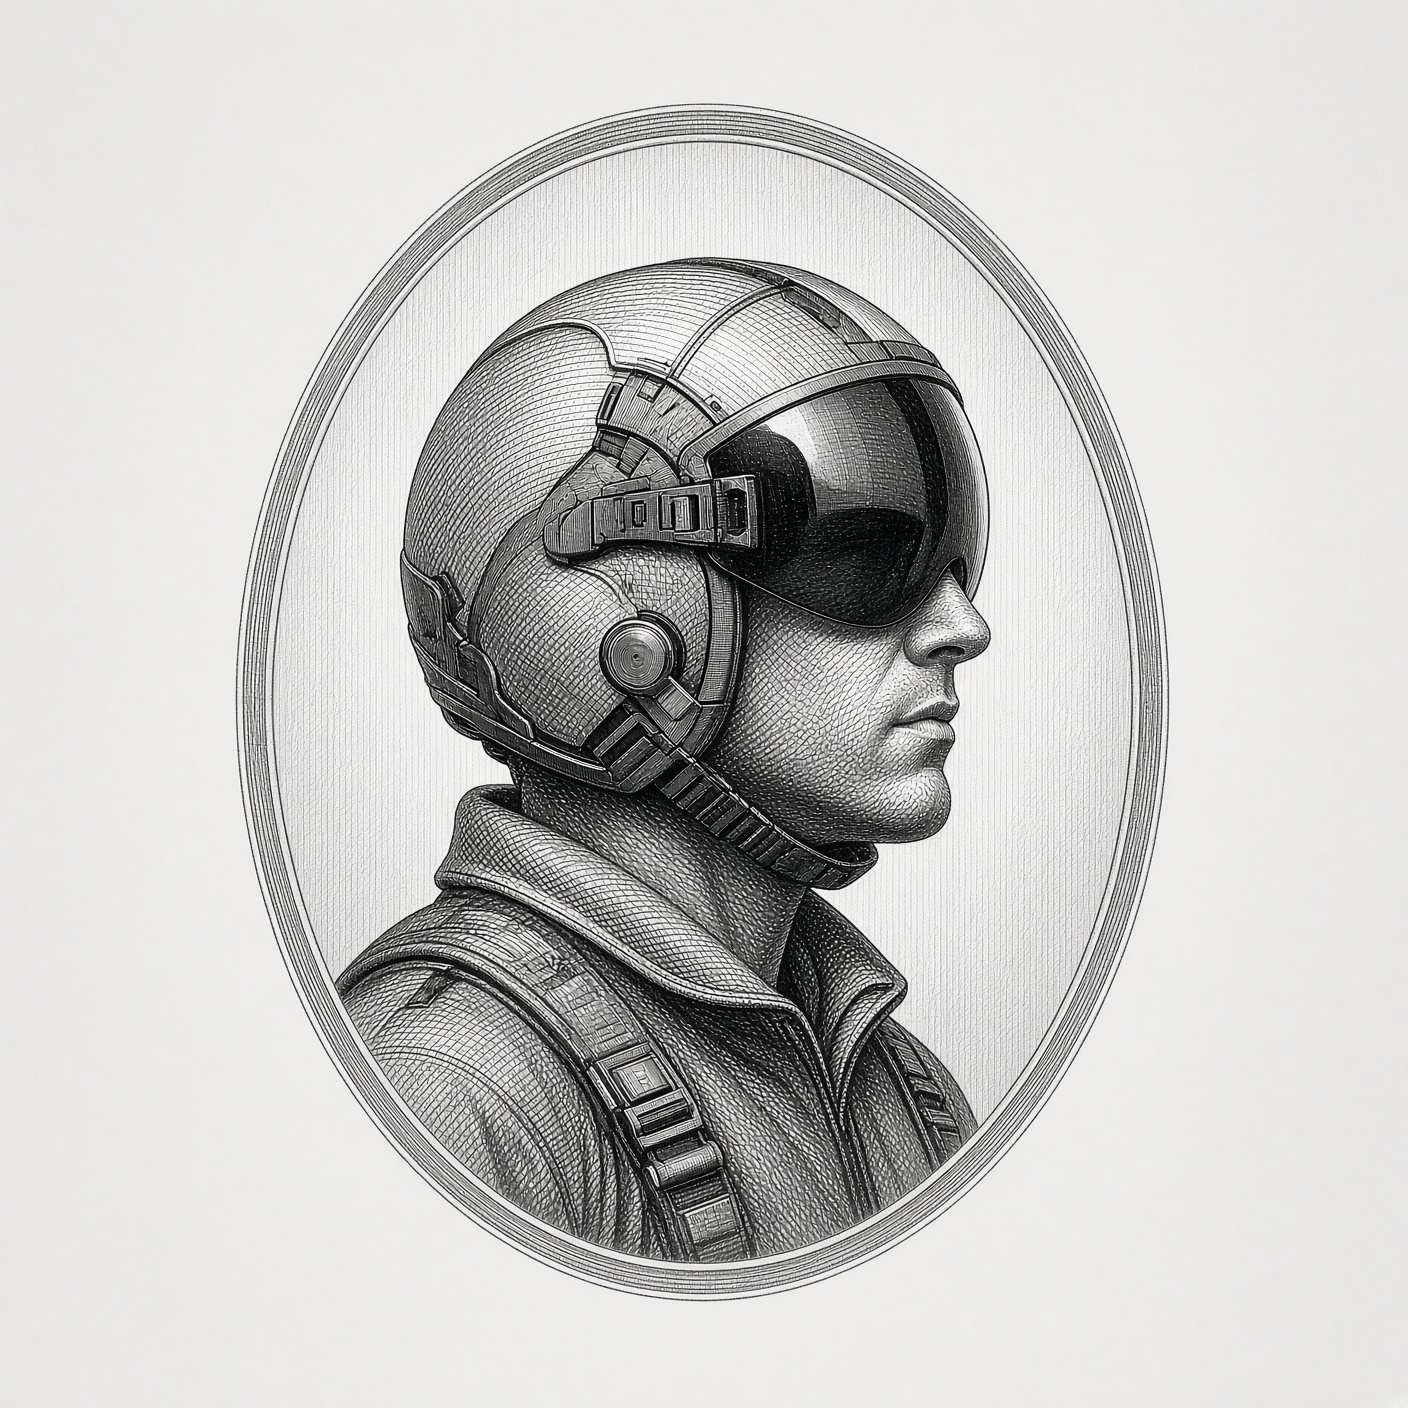
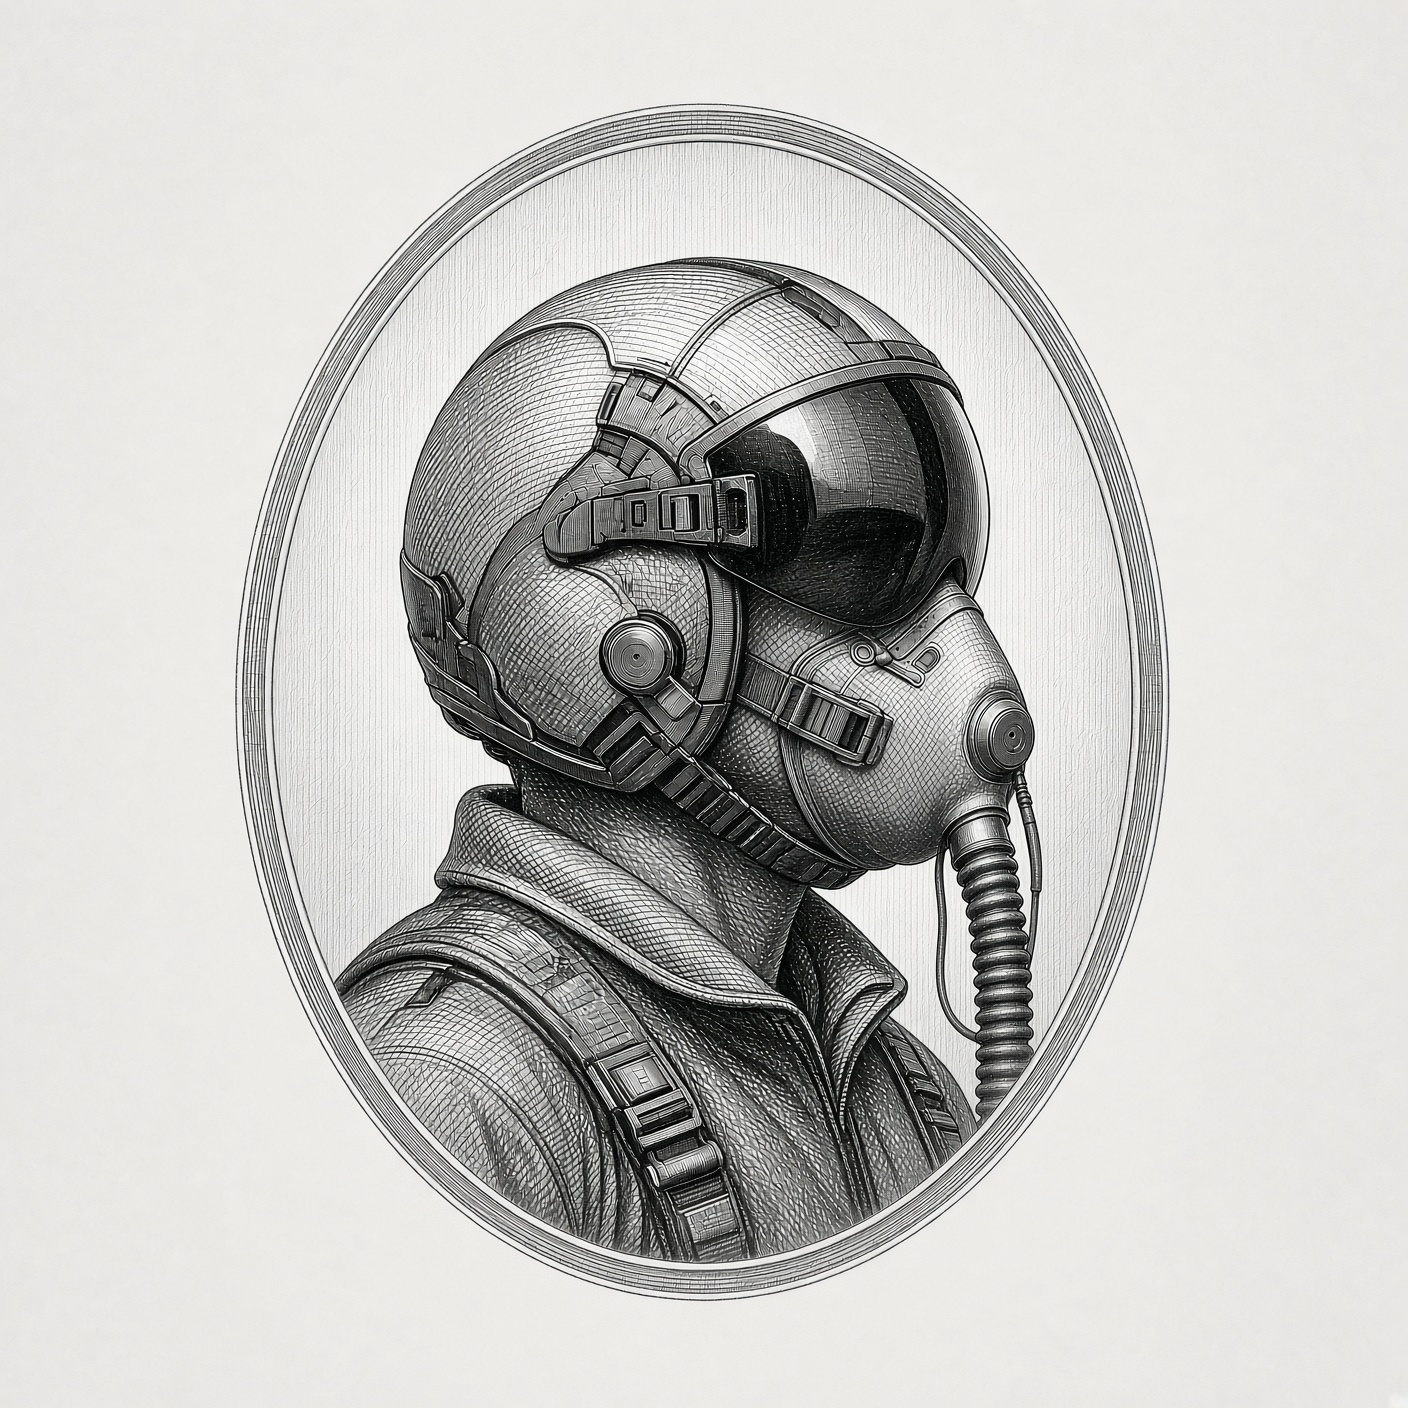
Enlarge the points balance and put the oxygen mask on the pilot.

Changed region(s): [[0.1562, 0.0625, 0.8438, 0.9375]]

diff --git a/src/routes/mach-rewards.tsx b/src/routes/mach-rewards.tsx
@@ -97,13 +97,13 @@ function PlatinumCard({
       <img
         src="/brand/rewards-pilot.jpg"
         alt=""
-        className="pointer-events-none absolute left-[46%] top-[53%] h-[54%] w-[32%] -translate-x-1/2 -translate-y-1/2 object-cover"
+        className="pointer-events-none absolute left-1/2 top-[53%] h-[54%] w-[32%] -translate-x-1/2 -translate-y-1/2 object-cover"
         style={{ clipPath: "ellipse(46% 46% at 50% 50%)" }}
       />
 
-      <div className="absolute right-[8%] top-[40%] -translate-y-1/2 text-right">
-        <p className="text-[1.7cqw] font-semibold tracking-[0.28em]">POINTS</p>
-        <p className="mt-[0.3cqw] text-[4.2cqw] font-bold leading-none tabular-nums">
+      <div className="absolute right-[8%] top-[38%] -translate-y-1/2 text-right">
+        <p className="text-[2.6cqw] font-semibold tracking-[0.22em]">POINTS</p>
+        <p className="mt-[0.4cqw] text-[6.2cqw] font-bold leading-none tabular-nums">
           {balance == null ? "—" : balance}
         </p>
       </div>
